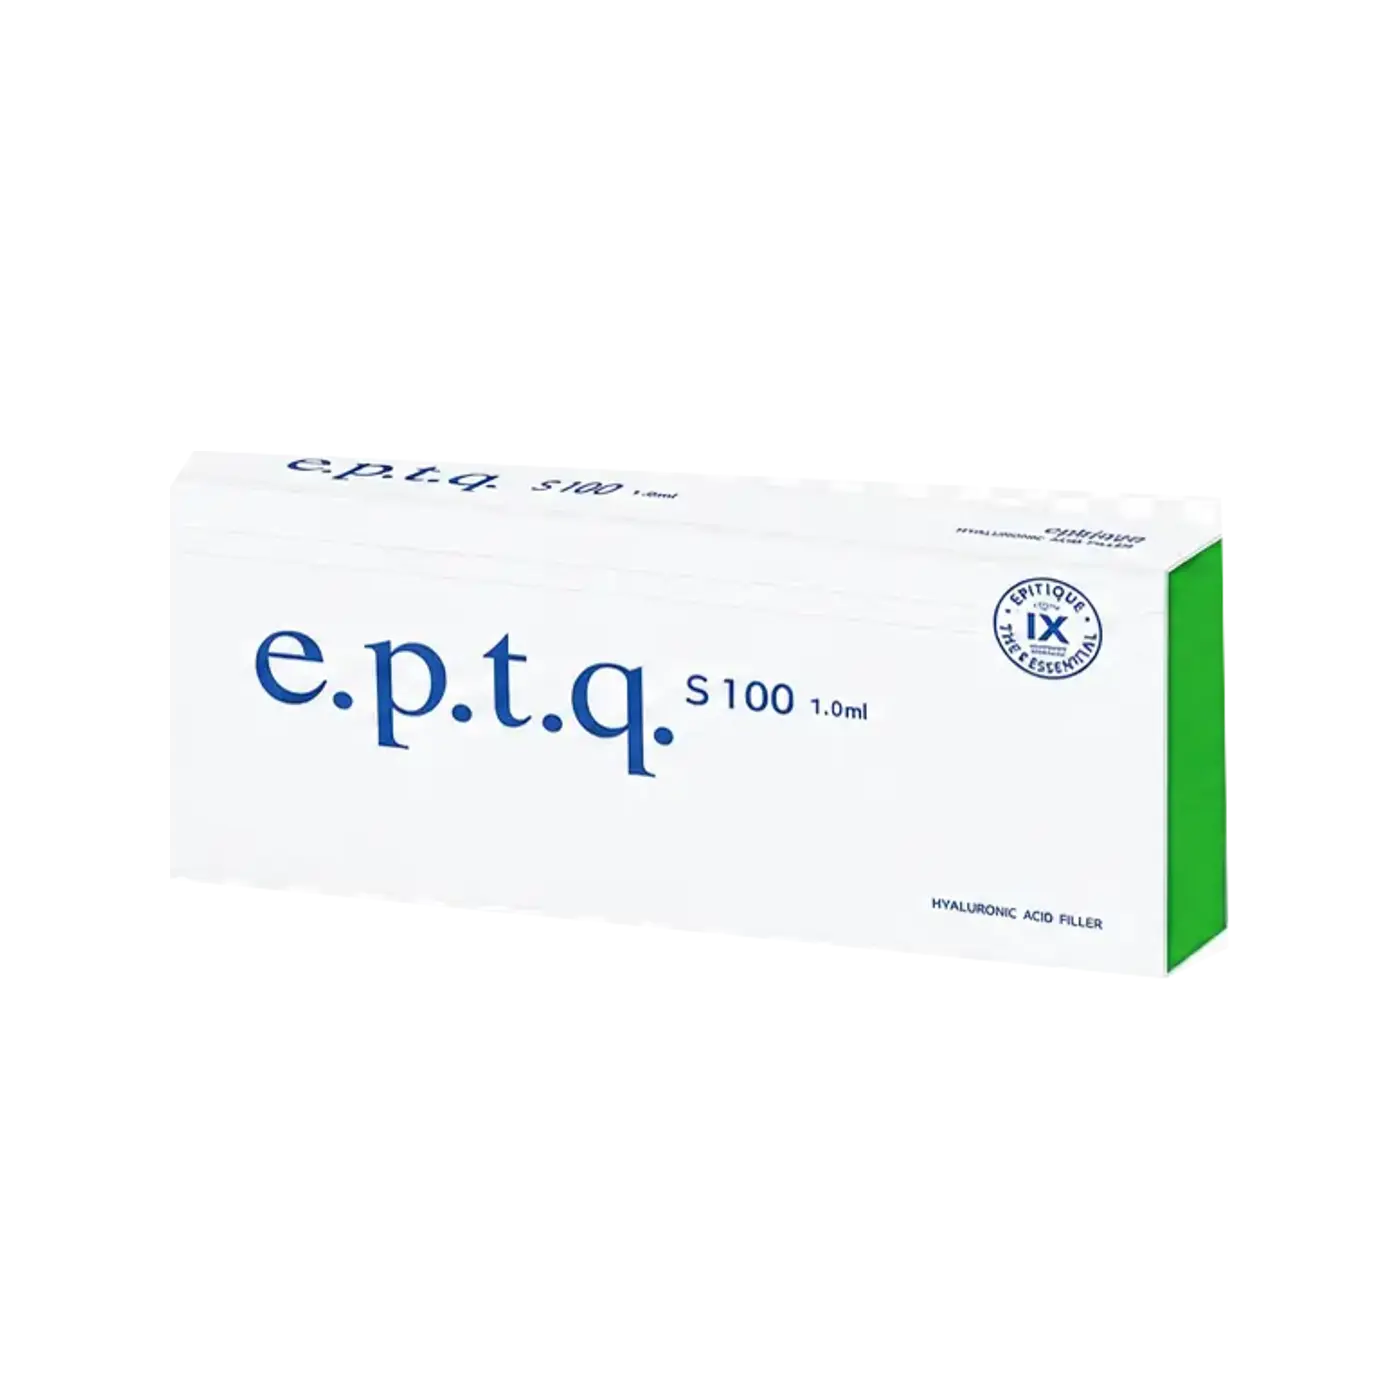
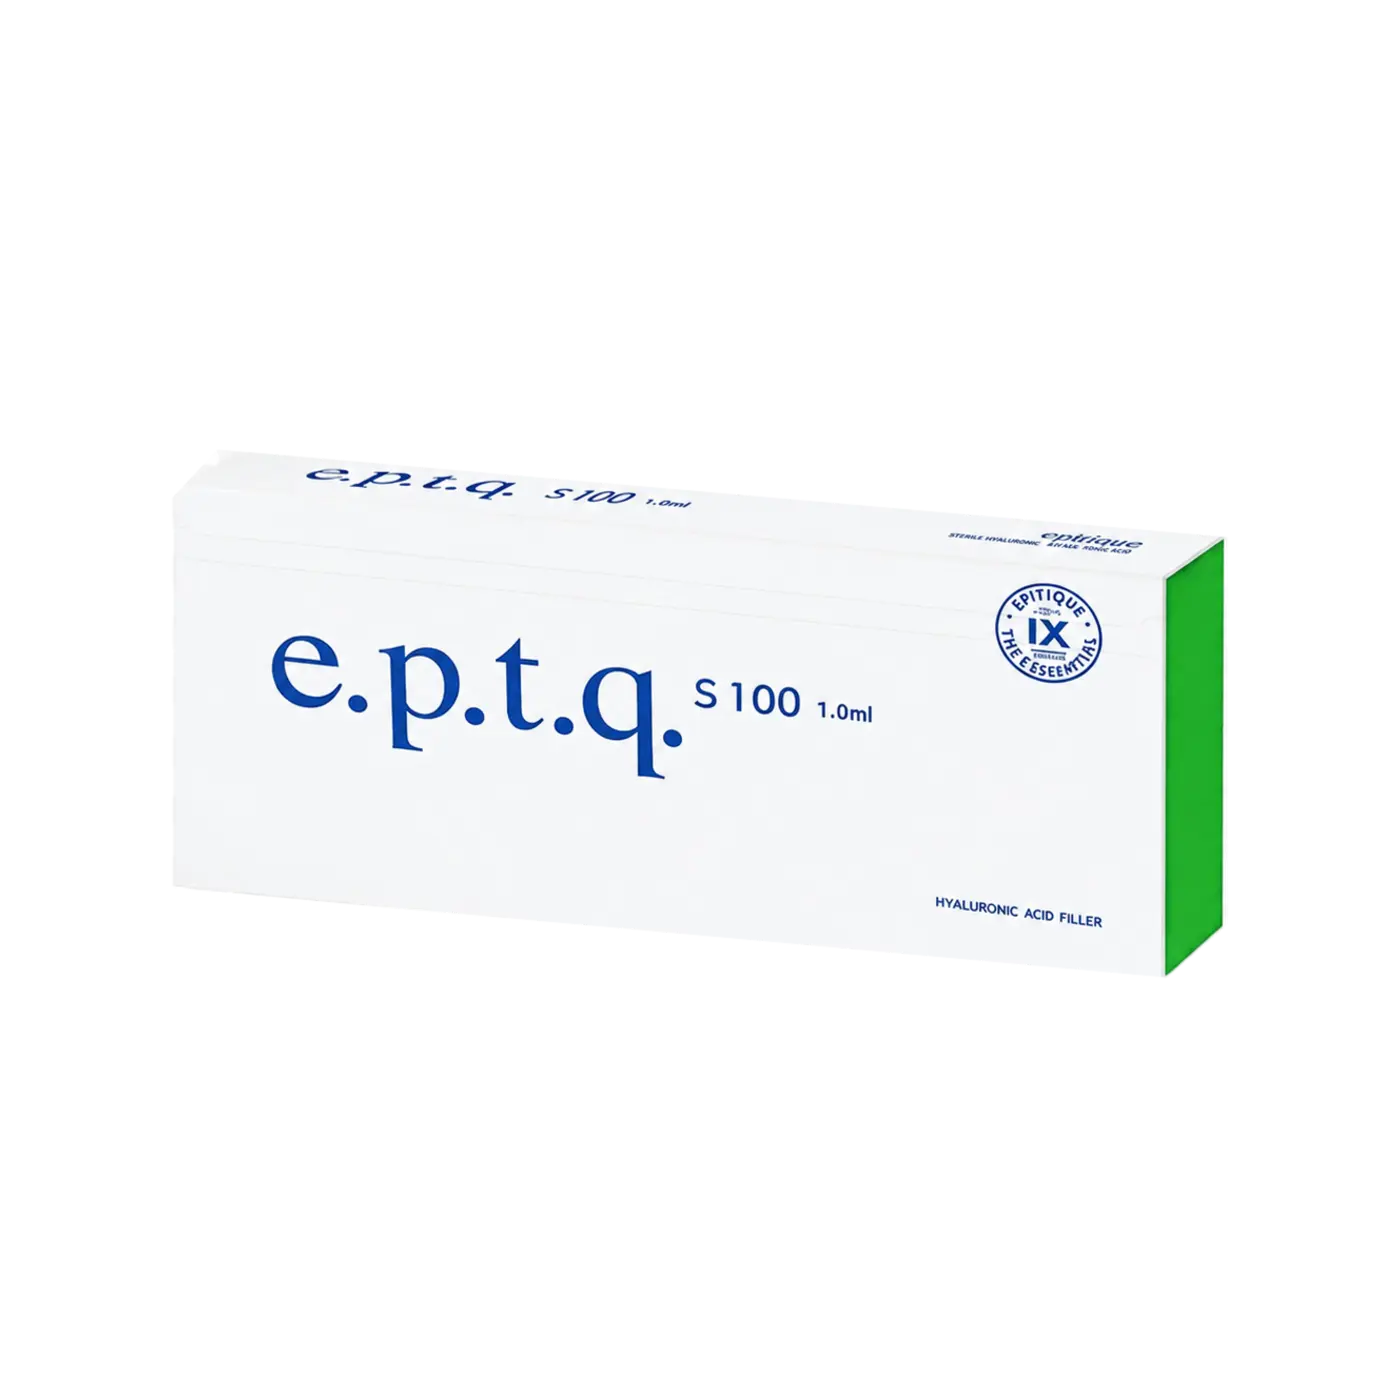
fix: improve product image quality

diff --git a/scripts/audit-product-cutouts.py b/scripts/audit-product-cutouts.py
@@ -1,5 +1,5 @@
 #!/usr/bin/env python3
-"""Fail when a storefront cutout can crop, float or miss the shared floor."""
+"""Fail when a storefront cutout can crop, float or carry a baked backdrop."""
 
 from __future__ import annotations
 
@@ -15,8 +15,10 @@ EXPECTED_FLOOR_Y = 980
 MAX_WIDTH = 1060
 MAX_HEIGHT = 780
 TOLERANCE = 2
-FAMILY_SIZE_TOLERANCE = 0.08
+FAMILY_SIZE_TOLERANCE = 0.05
 MAX_CENTER_OFFSET = 3
+MIN_TRANSPARENT_FRACTION = 0.55
+MAX_CORNER_ALPHA = 4
 
 
 def main() -> None:
@@ -33,7 +35,27 @@ def main() -> None:
                 failures.append(f"{path.relative_to(ROOT)}: canvas={image.size}")
                 continue
 
-            alpha = image.getchannel("A").point(lambda value: 255 if value >= 12 else 0)
+            raw_alpha = image.getchannel("A")
+            alpha_histogram = raw_alpha.histogram()
+            transparent_fraction = alpha_histogram[0] / (image.width * image.height)
+            if transparent_fraction < MIN_TRANSPARENT_FRACTION:
+                failures.append(
+                    f"{path.relative_to(ROOT)}: transparent canvas="
+                    f"{transparent_fraction:.1%}, possible baked backdrop",
+                )
+
+            corners = (
+                raw_alpha.getpixel((0, 0)),
+                raw_alpha.getpixel((image.width - 1, 0)),
+                raw_alpha.getpixel((0, image.height - 1)),
+                raw_alpha.getpixel((image.width - 1, image.height - 1)),
+            )
+            if max(corners) > MAX_CORNER_ALPHA:
+                failures.append(
+                    f"{path.relative_to(ROOT)}: non-transparent canvas corner {corners}",
+                )
+
+            alpha = raw_alpha.point(lambda value: 255 if value >= 12 else 0)
             bbox = alpha.getbbox()
             if not bbox:
                 failures.append(f"{path.relative_to(ROOT)}: empty alpha")

diff --git a/scripts/remove-product-backgrounds.py b/scripts/remove-product-backgrounds.py
@@ -25,6 +25,7 @@ DRIVE_ROOT = ROOT / "public/images/drive"
 CANVAS_SIZE = 1400
 CONTENT_MAX_WIDTH = 1060
 CONTENT_MAX_HEIGHT = 780
+MAX_UPSCALE_FACTOR = 1.5
 # Every cutout uses the same virtual floor.  Category CSS moves that floor to
 # the top of the photographed pedestal, which keeps bottles, boxes and syringes
 # aligned without distorting their native proportions.
@@ -231,7 +232,11 @@ def normalize_cutout(
     scale = min(
         CONTENT_MAX_WIDTH / cutout.width,
         CONTENT_MAX_HEIGHT / cutout.height,
-        4.5,
+        # A large synthetic upscale softens type, creates edge halos and makes
+        # a cutout look stretched even when its aspect ratio is technically
+        # preserved.  Sources that need more enlargement must be replaced by a
+        # higher-resolution pack shot instead of being blurred into compliance.
+        MAX_UPSCALE_FACTOR,
     )
     target = (
         max(1, round(cutout.width * scale)),
@@ -243,7 +248,10 @@ def normalize_cutout(
     # A restrained sharpening pass restores label legibility after resizing
     # without inventing or redrawing any packaging detail.
     rgb = cutout.convert("RGB")
-    if sharpen:
+    # Sharpen only after a downscale.  Sharpening an enlarged low-resolution
+    # source cannot recover real detail and tends to create brittle AI-looking
+    # contours around white cartons and clear glass.
+    if sharpen and scale <= 1:
         rgb = ImageEnhance.Sharpness(rgb).enhance(1.08)
         rgb = rgb.filter(ImageFilter.UnsharpMask(radius=0.65, percent=45, threshold=4))
     rgb.putalpha(cutout.getchannel("A"))
